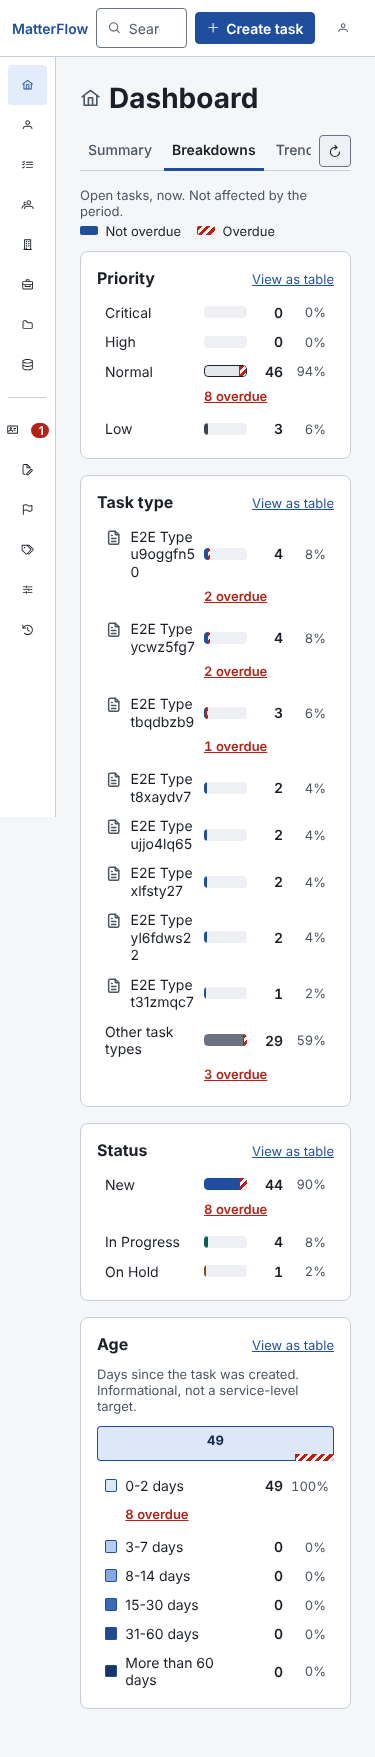
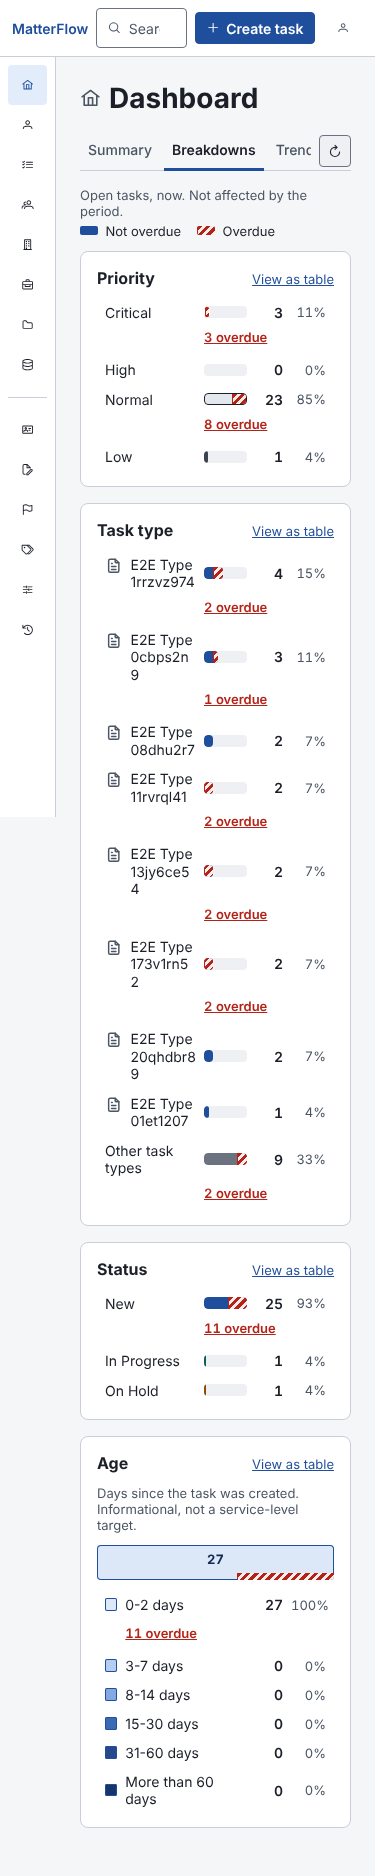
Breakdowns: forced-colours bars, phone layout without the share column
Claude-Session: https://claude.ai/code/session_01GjQ3L6gEego4PwsSfbngaa

diff --git a/frontend/src/app/features/dashboard/ui/bar-list.ts b/frontend/src/app/features/dashboard/ui/bar-list.ts
@@ -288,6 +288,35 @@ let nextId = 0;
           grid-column: 2 / -1;
         }
       }
+      /* A phone: the share is in the table view; the bar gets the room. */
+      @container (max-width: 20rem) {
+        .row {
+          grid-template-columns: minmax(3.5rem, 5.5rem) minmax(3rem, 1fr) 2rem;
+        }
+        .pct {
+          display: none;
+        }
+      }
+      /* Forced colours drop backgrounds: the plain bar is drawn with the system highlight, the priority bars keep their outline. */
+      @media (forced-colors: active) {
+        .bar {
+          forced-color-adjust: none;
+          background: Highlight !important;
+          border: 1px solid CanvasText;
+        }
+        .bar.outlined {
+          background: Canvas !important;
+          border-color: CanvasText !important;
+        }
+        .track {
+          border: 1px solid GrayText;
+        }
+        .marker {
+          forced-color-adjust: none;
+          background: Canvas !important;
+          border-color: CanvasText !important;
+        }
+      }
       /* Long names wrap to a second line instead of being cut off (a title attribute is not reachable by touch or keyboard). */
       .name {
         min-width: 0;
